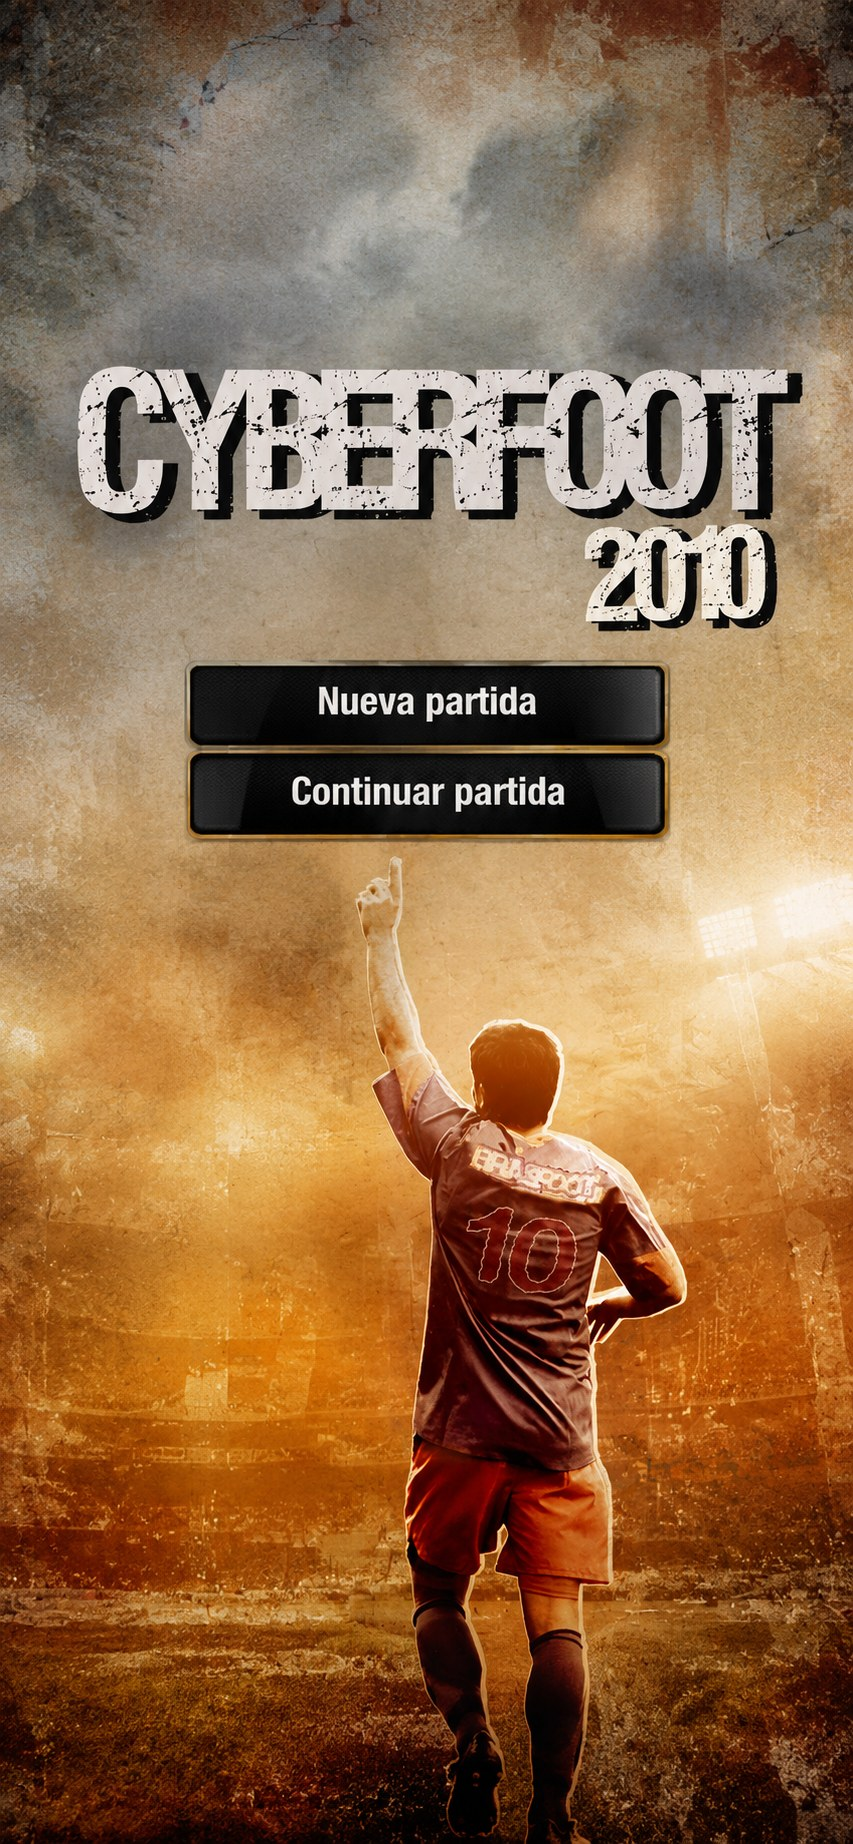
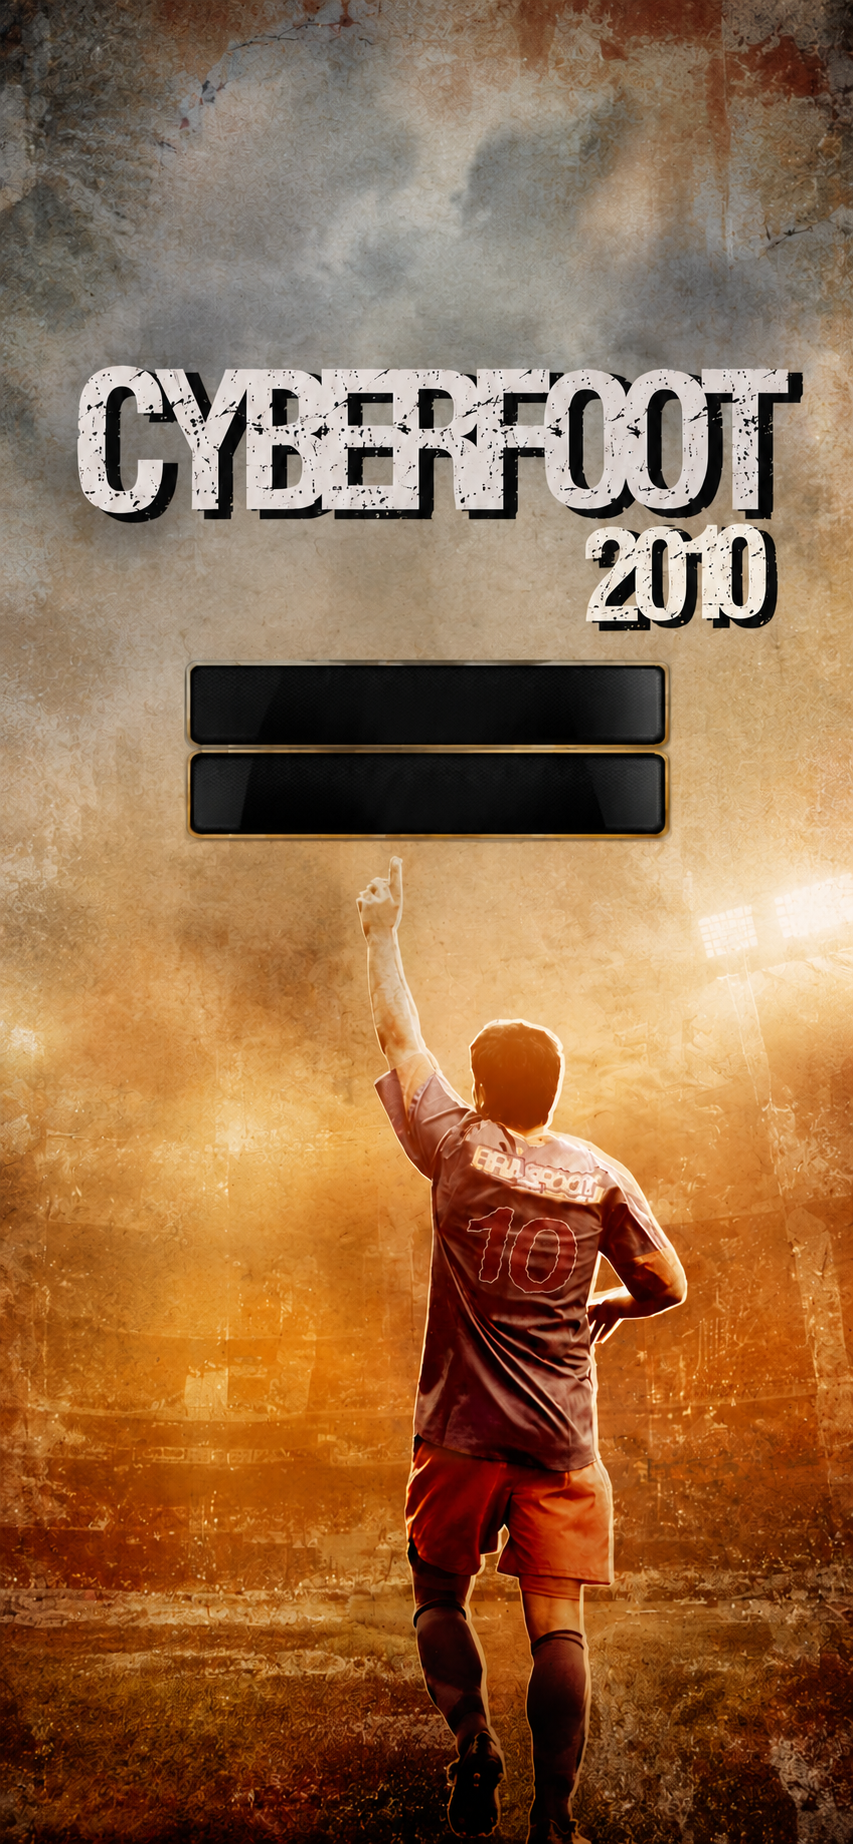
finish main menu

diff --git a/style.css b/style.css
@@ -9,34 +9,26 @@
   src: url(assets/fonts/tahomabd.ttf);
 }
 :root {
-  /* ===== PANEL DE CONTROL DEL MENU =====
-   cqw = 1% del ancho de la pantalla de inicio (escala solo en cada celular).
-   Tocá solo los valores de abajo. */
-  --fuente:
-    Tahoma, sans-serif; /* para usar la Tahoma incluida en la app (igual en todos los celulares): WT,Tahoma,sans-serif */
-  /* Texto "Seleccione su idioma" */
-  --lb-size: 2.8cqw;
+  --fuente: Tahoma, sans-serif;
+  --lb-size: 2.75cqw;
   --lb-color: #000;
-  --lb-top: 26.5cqw; /* el texto se centra solo sobre el recuadro */
-  /* Recuadro del selector de idioma */
+  --lb-top: 28cqw;
   --sel-w: 40cqw;
   --sel-h: 6.6cqw;
   --sel-top: 32.5cqw;
   --sel-right: 6.2cqw;
-  --sel-size: 3cqw;
+  --sel-size: 2.75cqw;
   --sel-color: #000;
   --sel-bg: #fff;
   --sel-borde: #3c7fb1;
   --sel-flag: 4.2cqw;
-  /* Lista desplegable de idiomas */
   --lista-fila: 4.8cqw;
   --lista-sel-bg: #39f;
   --lista-sel-color: #fff;
-  /* Texto de los botones Nueva partida / Continuar partida */
-  --btn-size: 4cqw;
+  --btn-size: 3cqw;
   --btn-peso: 700;
   --btn-color: #fff;
-  --btn-espaciado: 0.02em;
+  --btn-espaciado: 0.01em;
 }
 * {
   box-sizing: border-box;
@@ -49,12 +41,9 @@ body {
   background: #000;
 }
 body {
-  font:
-    12px/1.35 WT,
-    Tahoma,
-    Verdana,
-    "DejaVu Sans",
-    sans-serif;
+  font-family: var(--fuente);
+  font-size: 12px;
+  line-height: 1.35;
   overflow-x: hidden;
 }
 body::before {
@@ -77,7 +66,6 @@ body::before {
   container-type: inline-size;
   overflow: hidden;
 }
-/* --- texto de arriba --- */
 .lb {
   position: absolute;
   right: var(--sel-right);
@@ -89,7 +77,6 @@ body::before {
   color: var(--lb-color);
   white-space: nowrap;
 }
-/* --- selector de idioma (recuadro cerrado) --- */
 .cbx {
   position: absolute;
   right: var(--sel-right);
@@ -139,7 +126,6 @@ body::before {
   border-width: 0 0.4cqw 0.4cqw 0;
   transform: rotate(45deg);
 }
-/* --- lista desplegable --- */
 .dd {
   position: absolute;
   left: 0;
@@ -164,9 +150,10 @@ body::before {
   font-size: var(--sel-size);
   color: var(--sel-color);
 }
-.it.on {
-  background: var(--lista-sel-bg);
-  color: var(--lista-sel-color);
+.it:hover {
+  background: #39f;
+  color: #fff;
+  cursor: pointer;
 }
 .fl {
   flex: none;
@@ -174,28 +161,26 @@ body::before {
   height: var(--sel-flag);
   image-rendering: pixelated;
 }
-/* --- botones: solo el texto, el recuadro ya esta dibujado en la imagen --- */
 .gb {
   position: absolute;
-  left: 22.27cqw;
-  width: 55.45cqw;
-  height: 9.14cqw;
+  left: 21.45cqw;
+  width: 57.09cqw;
+  height: 9cqw;
+  padding: 1;
   background: none;
   border: 0;
-  padding: 0;
   outline: none;
   user-select: none;
   -webkit-user-select: none;
   color: var(--btn-color);
-  font-family: var(--fuente);
+  font-family: Tahoma, sans-serif;
   font-size: var(--btn-size);
-  font-weight: var(--btn-peso);
-  letter-spacing: var(--btn-espaciado);
-  /* Contorno y sombra del texto */
+  font-weight: 700;
+  letter-spacing: 0.005em;
   text-shadow:
-    -1px -1px 0 #222,
-    1px -1px 0 #222,
-    -1px 1px 0 #222,
-    1px 1px 0 #222,
-    0 2px 3px rgba(0, 0, 0, 0.95);
+    -2px -2px 0 #000000,
+    2px -2px 0 #000000,
+    -2px 2px 0 #000000,
+    2px 2px 0 #000000,
+    0 4px 5px rgba(0, 0, 0, 0.95);
 }
